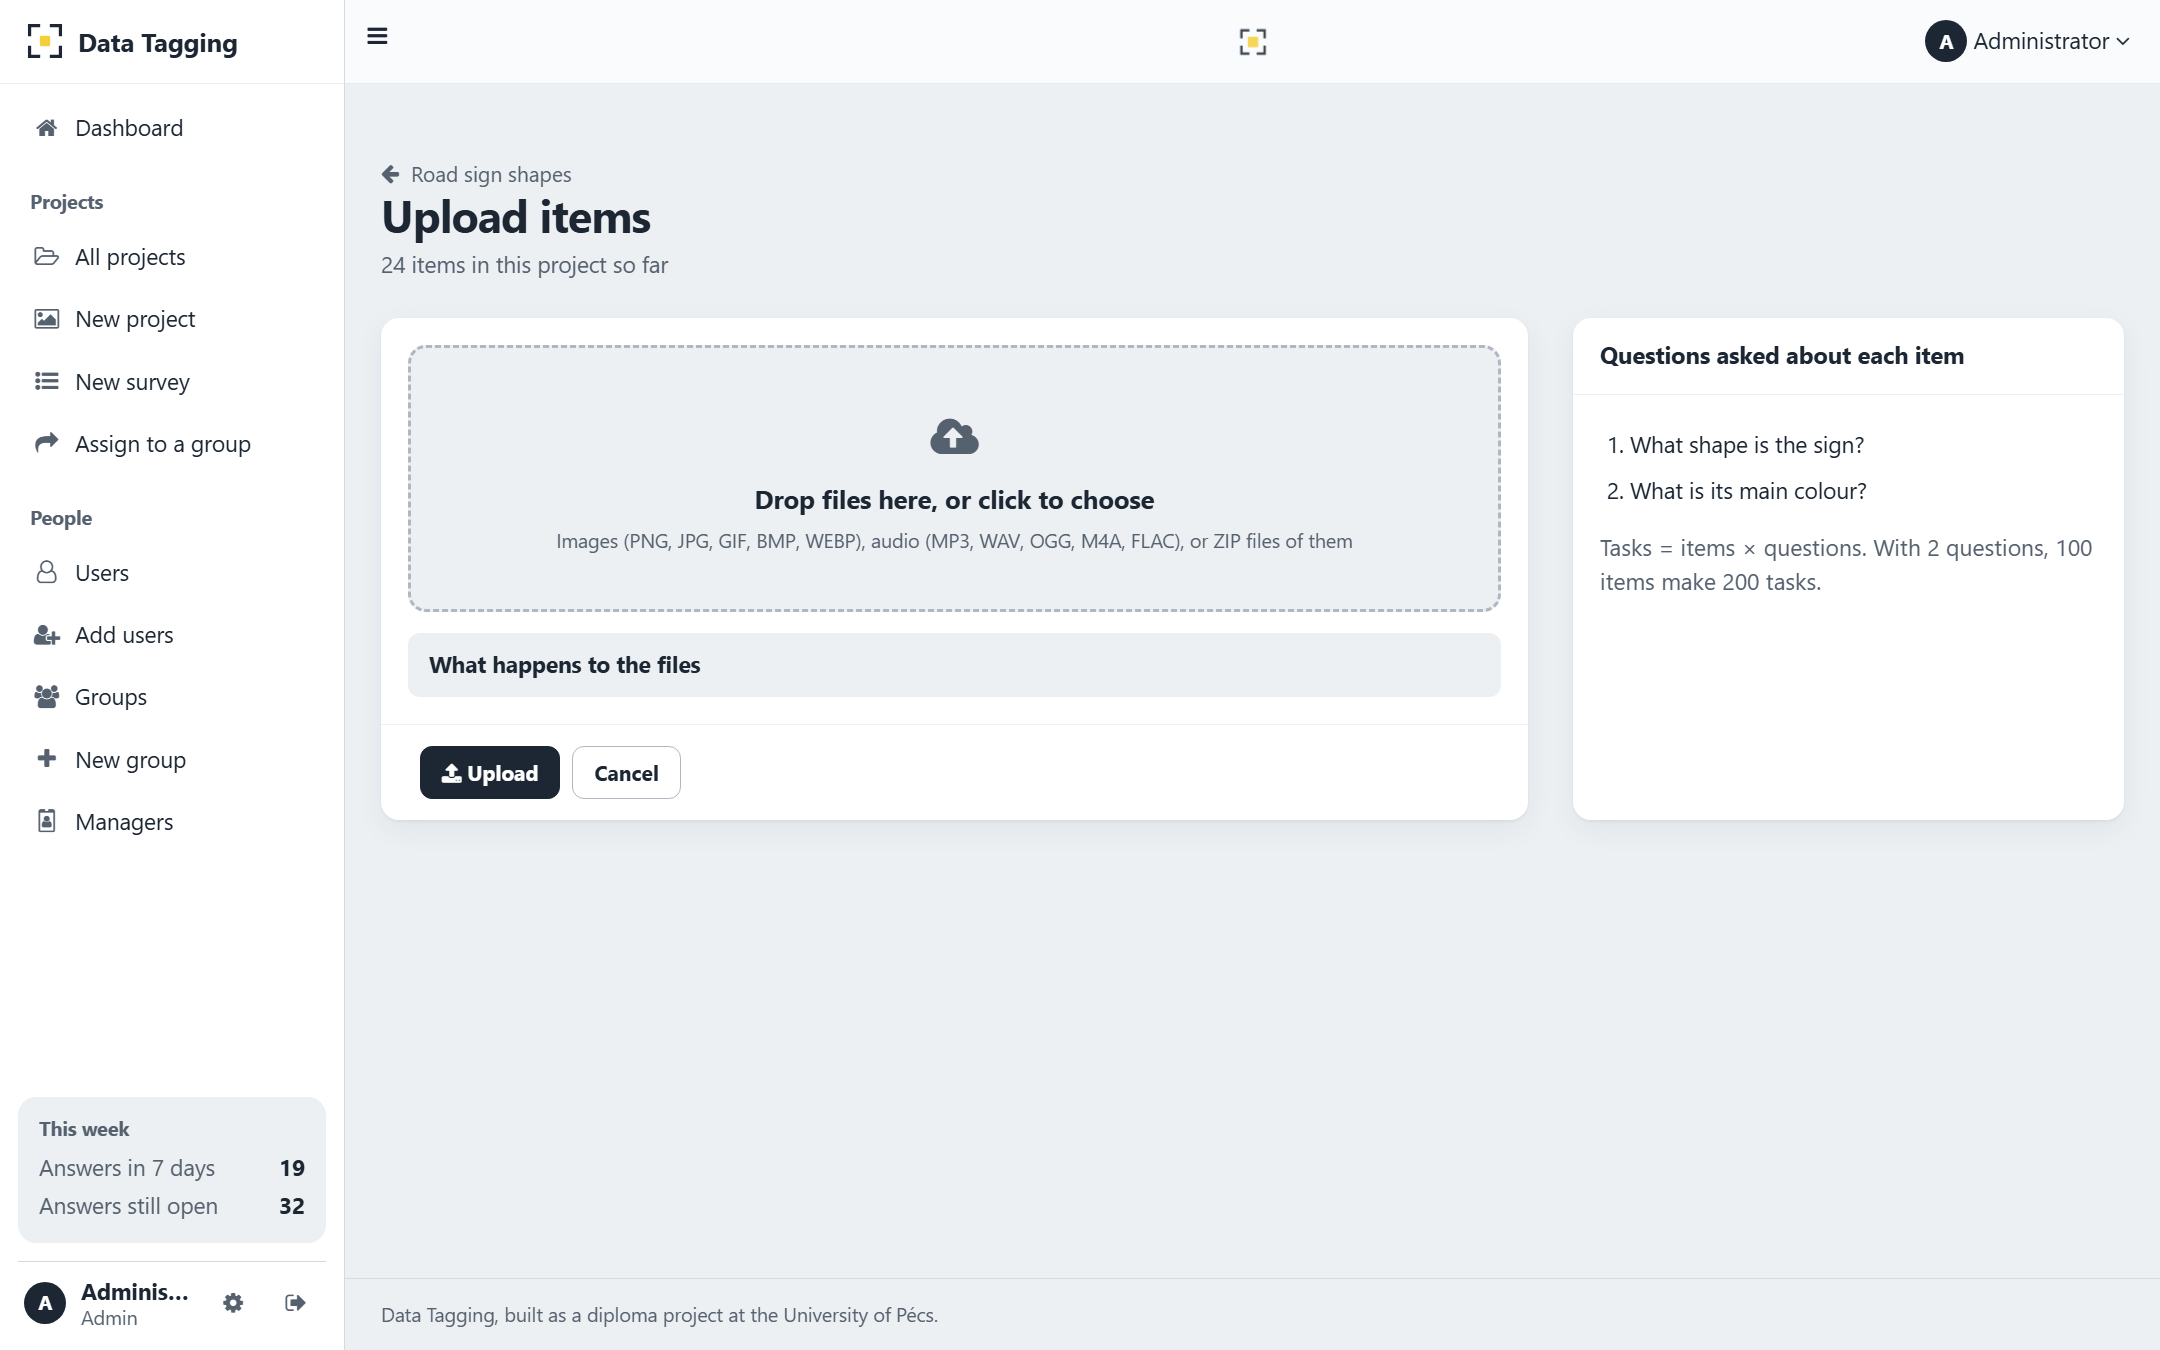
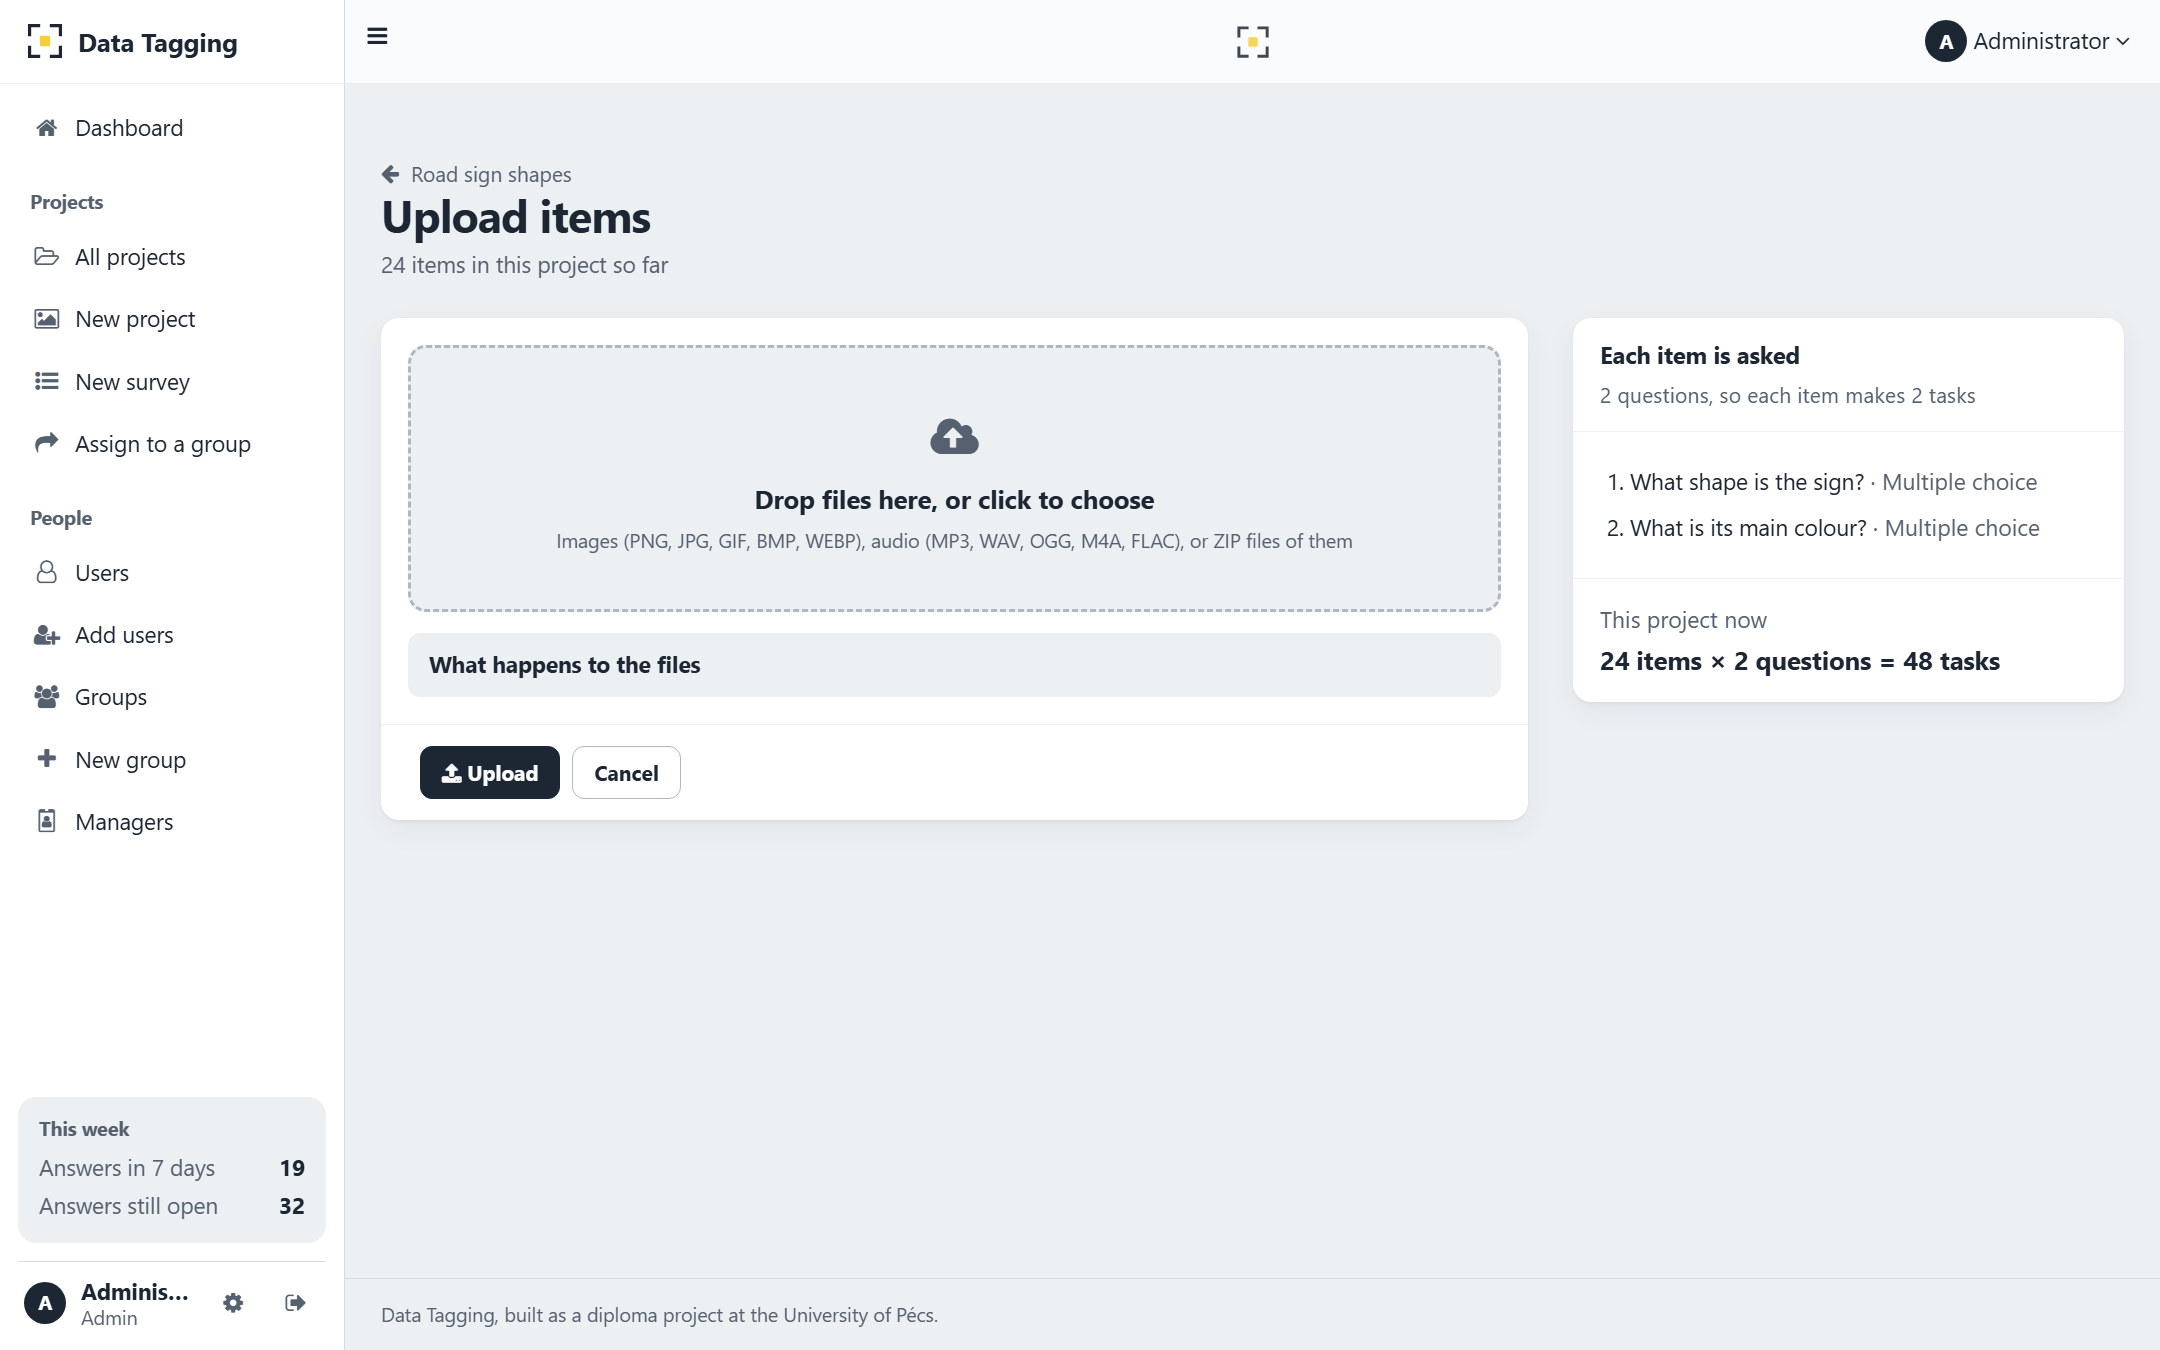
fix: tidy the side cards on upload, hand-out and new project
Upload items: the side card no longer stretches to the form's height; it
lists the questions with their type and sums up the project's real numbers
(24 items x 2 questions = 48 tasks) instead of a made-up 100 items. Hand out
tasks: its side card no longer stretches either.

New project: How It Works becomes What happens next, four numbered steps in
the order they really happen (create, upload, hand out to a group, follow
progress and results), the current one marked; Cancel loses its arrow like
the other forms. Screenshots of upload and hand-out retaken.

Changed region(s): [[0.7444, 0.2489, 0.9926, 0.5289]]

diff --git a/application/templates/admin/create_annotation_project.html b/application/templates/admin/create_annotation_project.html
@@ -133,7 +133,7 @@
               Create project
             </button>
             <a href="{{ url_for('admin.view_projects') }}" class="btn btn-default">
-              <i class="fa fa-arrow-left"></i> Cancel
+              Cancel
             </a>
           </div>
         </form>
@@ -141,24 +141,21 @@
     </div>
     
     <div class="col-md-4">
-      <div class="box box-info">
+      <div class="box">
         <div class="box-header with-border">
-          <h3 class="box-title">
-            <i class="fa fa-info-circle"></i> How It Works
-          </h3>
+          <h3 class="box-title">What happens next</h3>
+          <p class="text-muted box-subtitle">Four steps from here to a labelled dataset</p>
         </div>
         <div class="box-body">
-          <ol>
-            <li><strong>Create Project</strong> - Set up your project and its settings</li>
-            <li><strong>Questions</strong> - Free text, or multiple choice when you want comparable answers</li>
-            <li><strong>Upload Items</strong> - Batch upload images and/or audio clips via ZIP file</li>
-            <li><strong>Hand out tasks</strong> - every item × question becomes a task, shared fairly</li>
-            <li><strong>Assign a group</strong> - Work is split evenly; if someone leaves, their unfinished tasks go to the others</li>
-            <li><strong>Monitor Progress</strong> - Track completion and download results</li>
+          <ol class="steps">
+            <li class="is-current"><strong>Create the project</strong><span>Its name, its questions and how many people answer each task.</span></li>
+            <li><strong>Upload items</strong><span>Images and audio clips, one by one or as ZIP files.</span></li>
+            <li><strong>Hand out tasks to a group</strong><span>Every item × question becomes a task, and each goes to whoever has the fewest. If someone leaves, their unfinished tasks go to the others.</span></li>
+            <li><strong>Follow progress and results</strong><span>See who did what and how well people agreed, then download the answers as CSV or JSON.</span></li>
           </ol>
         </div>
       </div>
-      
+
       <div class="box">
         <div class="box-header with-border">
           <h3 class="box-title">Choosing an answer type</h3>

diff --git a/application/templates/admin/upload_images.html b/application/templates/admin/upload_images.html
@@ -12,7 +12,7 @@
 </section>
 
 <section class="content">
-  <div class="row task-grid">
+  <div class="row">
     <div class="col-md-8 col-xs-12">
       <div class="box">
         <form method="POST" enctype="multipart/form-data" class="upload-form">
@@ -51,20 +51,24 @@
     </div>
 
     <div class="col-md-4 col-xs-12">
+      {% set n_items, n_questions = project.images|length, project.questions|length %}
       <div class="box">
-        <div class="box-header with-border"><h3 class="box-title">Questions asked about each item</h3></div>
+        <div class="box-header with-border">
+          <h3 class="box-title">Each item is asked</h3>
+          <p class="text-muted box-subtitle">{{ plural(n_questions, "question") }}, so each item makes {{ plural(n_questions, "task") }}</p>
+        </div>
         <div class="box-body">
           <ol class="question-list">
             {% for question in project.questions %}
-            <li>{{ question.question }}</li>
+            <li>{{ question.question }} <span class="text-muted">· {{ "Multiple choice" if question.answer_type.value == "mcq" else "Free text" }}</span></li>
             {% else %}
-            <li class="text-muted">No questions yet.</li>
+            <li class="text-muted">No questions yet. Add them on the project's Questions and settings page.</li>
             {% endfor %}
           </ol>
-          <p class="text-muted" style="margin: 12px 0 0;">
-            Tasks = items × questions. With {{ plural(project.questions|length, "question") }}, 100 items make
-            {{ plural(100 * project.questions|length, "task") }}.
-          </p>
+        </div>
+        <div class="box-footer task-sum">
+          <span class="text-muted">This project now</span>
+          <strong>{{ plural(n_items, "item") }} × {{ plural(n_questions, "question") }} = {{ plural(n_items * n_questions, "task") }}</strong>
         </div>
       </div>
     </div>

diff --git a/application/static/css/app.css b/application/static/css/app.css
@@ -948,3 +948,16 @@ textarea, textarea.form-control { resize: vertical; max-width: 100%; max-height:
 .upload-summary { margin: 0 0 6px; font-weight: 700; }
 .upload-chosen ul { margin: 0 0 14px; padding-left: 18px; color: var(--muted); font-size: 14px; max-height: 180px; overflow: auto; }
 .share-preview { margin-top: 10px; padding: 10px 14px; border-left: 4px solid var(--accent); border-radius: 2px; background: var(--accent-soft); font-weight: 700; }
+.task-sum { display: grid; gap: 2px; }
+.task-sum strong { font-size: 17px; font-variant-numeric: tabular-nums; }
+
+/* Numbered steps on a form's side card; the current one is marked like the selected tile */
+.steps { list-style: none; margin: 0; padding: 0; counter-reset: step; display: grid; gap: 14px; }
+.steps > li { position: relative; padding-left: 40px; counter-increment: step; }
+.steps > li::before {
+  content: counter(step); position: absolute; left: 0; top: 0; width: 26px; height: 26px; display: grid; place-items: center;
+  font-size: 13px; font-weight: 700; color: var(--muted); background: var(--canvas); border-radius: 50%;
+}
+.steps > li.is-current::before { background: var(--marker); color: var(--ink); }
+.steps > li > strong { display: block; }
+.steps > li > span { display: block; color: var(--muted); font-size: 14px; }

diff --git a/application/templates/admin/generate_annotation_tasks.html b/application/templates/admin/generate_annotation_tasks.html
@@ -12,7 +12,7 @@
 </section>
 
 <section class="content">
-  <div class="row task-grid">
+  <div class="row">
     <div class="col-md-8 col-xs-12">
       <div class="box">
         <form method="POST">
